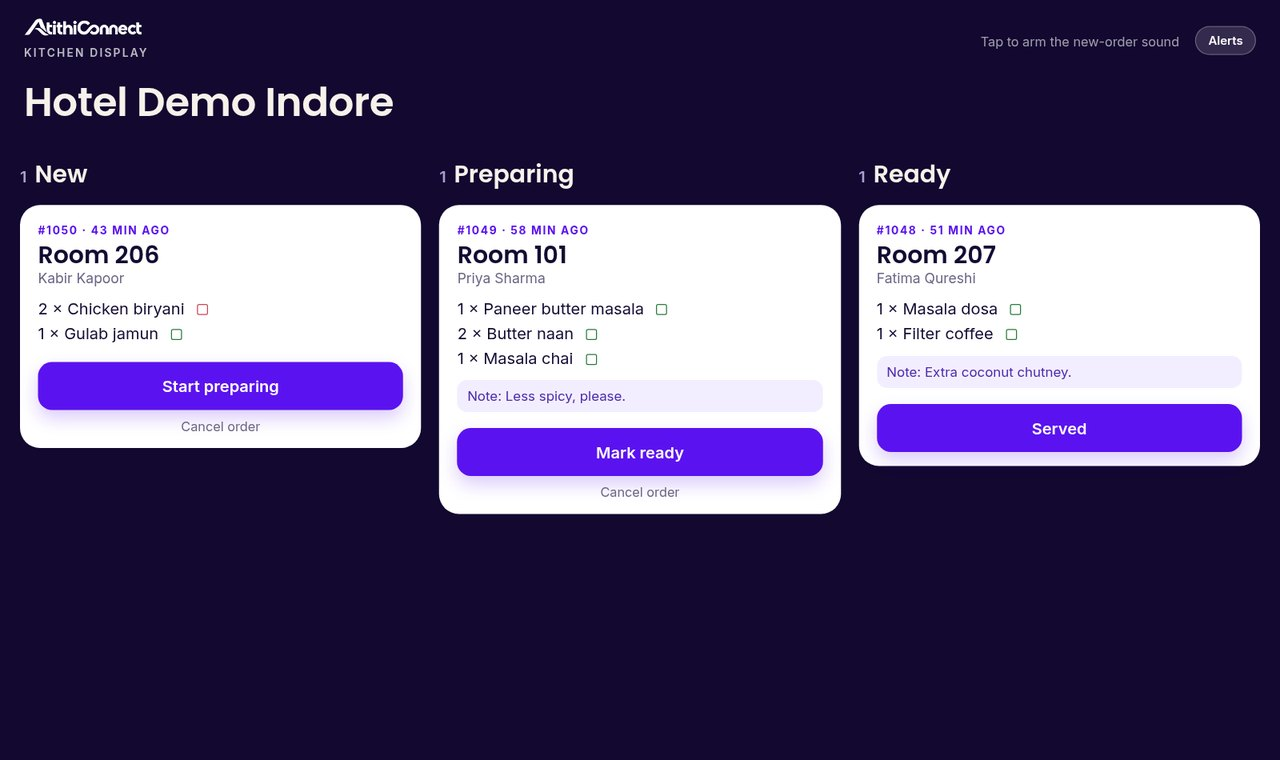
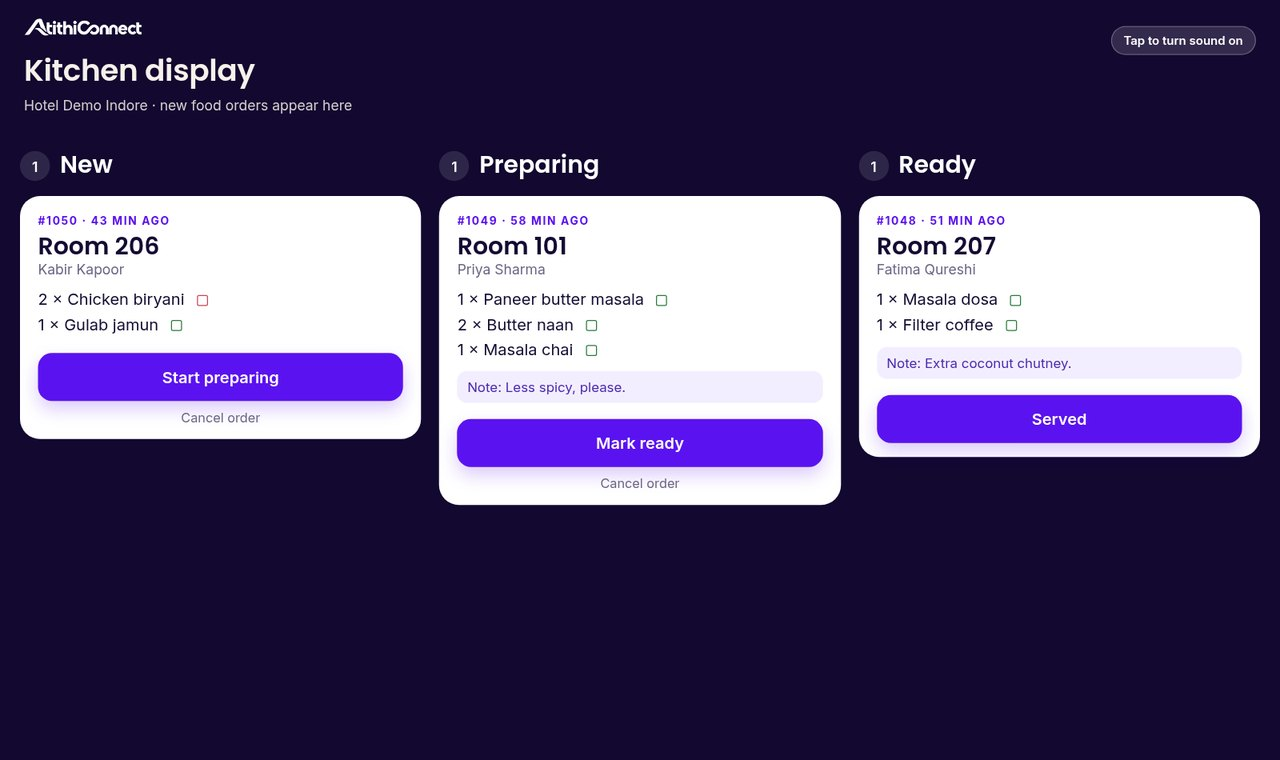
Restyle all demo screens: guest subpage headers, kitchen header, staff login

Changed region(s): [[0.0, 0.1816, 1.0, 0.6961], [0.0, 0.0605, 0.3125, 0.1513], [0.7812, 0.0303, 0.9688, 0.0908]]

diff --git a/src/components/GuestShell.tsx b/src/components/GuestShell.tsx
@@ -10,11 +10,28 @@ const tabs = [
   { to: "/guest/more", icon: IconMore, en: "More", hi: "और" },
 ];
 
+const heads: Record<string, { en: string; hi: string; sen: string; shi: string }> = {
+  "/guest/requests": { en: "Requests", hi: "अनुरोध", sen: "One tap and the right team gets it. Track it here.", shi: "एक टैप में सही टीम तक। यहाँ स्थिति देखें।" },
+  "/guest/chat": { en: "Chat with reception", hi: "रिसेप्शन से चैट", sen: "Type a message. The front desk replies here.", shi: "संदेश लिखें, डेस्क यहीं जवाब देगा।" },
+  "/guest/more": { en: "My stay", hi: "मेरा ठहराव", sen: "Wi‑Fi, your bill so far and places nearby.", shi: "वाई-फाई, अब तक का बिल और आस-पास की जगहें।" },
+};
+
 export default function GuestShell({ children }: { children: React.ReactNode }) {
   const { lang } = useDemo();
   const loc = useLocation();
+  const head = heads[loc.pathname.replace(/\/$/, "")];
   return (
     <div className="g-page">
+      {head ? (
+        <header className="g-subhead">
+          <div className="g-top">
+            <img className="app-logo" src={`${import.meta.env.BASE_URL}brand/logo-white.png`} alt="AtithiConnect" />
+            <span className="room-pill">ROOM 101</span>
+          </div>
+          <h1>{lang === "hi" ? head.hi : head.en}</h1>
+          <p>{lang === "hi" ? head.shi : head.sen}</p>
+        </header>
+      ) : null}
       {children}
       <nav className="tabbar">
         {tabs.map((t) => {

diff --git a/src/index.css b/src/index.css
@@ -503,3 +503,14 @@ h1.hi, h2.hi, .serif.hi, :lang(hi) .serif {
   .db-nav a { flex: 1; text-align: center; padding: 7px 8px; }
   .db-back { width: 38px; height: 38px; padding: 0; justify-content: center; font-size: 16px; }
 }
+.g-subhead { color: #fff; padding: calc(16px + var(--safe-t)) 18px 22px; background: radial-gradient(500px 200px at 90% -30%, rgba(255,255,255,.2), transparent 60%), linear-gradient(135deg, #4a0fd0, #5b12f0 50%, #7b2cff); border-radius: 0 0 26px 26px; }
+.phone .g-subhead { padding-top: 48px; }
+.g-subhead h1 { font-family: var(--display); font-size: 26px; font-weight: 600; margin-top: 20px; letter-spacing: -.01em; }
+.g-subhead p { font-size: 14px; opacity: .85; margin-top: 4px; line-height: 1.45; }
+.kitch-head { flex-wrap: wrap; padding-bottom: 18px; }
+.kitchen .k-col h2 { color: #fff; }
+.k-col h2 .k-count { display: inline-grid; place-items: center; min-width: 30px; height: 30px; border-radius: 999px; background: rgba(255,255,255,.12); color: #fff; font-size: 14px; margin-right: 10px; vertical-align: middle; }
+.role-list a { box-shadow: var(--shadow-soft); transition: border-color .15s; }
+.role-list a:hover { border-color: #b9a2ff; }
+.role-list .btn-title { font-family: var(--display); color: var(--ink); }
+@media (max-width: 900px) { .k-cols { padding: 8px 14px 32px; } }

diff --git a/src/pages/Kitchen.tsx b/src/pages/Kitchen.tsx
@@ -28,12 +28,11 @@ export default function Kitchen() {
       <header className="kitch-head">
         <div>
           <img className="app-logo" src={`${import.meta.env.BASE_URL}brand/logo-white.png`} alt="AtithiConnect" />
-          <div className="kicker" style={{marginTop:10}}>KITCHEN DISPLAY</div>
-          <h1 className="head-title" style={{ fontSize: 40 }}>{HOTEL}</h1>
+          <h1 className="head-title">Kitchen display</h1>
+          <div className="head-sub">{HOTEL} · new food orders appear here</div>
         </div>
         <div className="head-actions" style={{ marginTop: 8 }}>
-          <span style={{ fontSize: 13, color: "rgba(255,255,255,.6)", marginRight: 8 }}>Tap to arm the new-order sound</span>
-          <span className="pill">Alerts</span>
+          <span className={"pill" + (armed ? " live dot" : "")}>{armed ? "Sound on" : "Tap to turn sound on"}</span>
         </div>
       </header>
       <div className="k-cols">

diff --git a/src/pages/GuestChat.tsx b/src/pages/GuestChat.tsx
@@ -26,8 +26,8 @@ export default function GuestChat() {
 
   return (
     <GuestShell>
-      <div className="section" style={{ paddingTop: 28 }}>
-        <h2>{t("Chat with the desk", "डेस्क से बात करें")}</h2>
+      <div className="section" style={{ paddingTop: 20 }}>
+        
         <p className="empty" style={{ paddingTop: 0 }}>{t("Hotel Demo Indore · Reception", "होटल डेमो इंदौर · रिसेप्शन")}</p>
         <div style={{ display: "grid", gap: 10, marginTop: 8 }}>
           {msgs.map((m, i) => (

diff --git a/src/pages/GuestMore.tsx b/src/pages/GuestMore.tsx
@@ -10,7 +10,7 @@ export default function GuestMore() {
 
   return (
     <GuestShell>
-      <div className="section" style={{ paddingTop: 28 }}>
+      <div className="section" style={{ paddingTop: 20 }}>
         <h2>{t("Your stay", "आपका ठहरना")}</h2>
         <div className="order-card">
           <div className="oid" style={{ fontFamily: "var(--serif)", fontWeight: 500, fontSize: 20 }}>{lang === "hi" ? GUEST.formalHi : GUEST.formal}</div>

diff --git a/src/pages/GuestRequests.tsx b/src/pages/GuestRequests.tsx
@@ -13,7 +13,7 @@ export default function GuestRequests() {
   const mine = tickets.filter((x) => x.room === GUEST.room);
   return (
     <GuestShell>
-      <div className="section" style={{ paddingTop: 28 }}>
+      <div className="section" style={{ paddingTop: 20 }}>
         <h2>{t("Ask the team", "टीम से कहें")}</h2>
         <div className="req-grid">
           {reqMeta.map((r) => {
